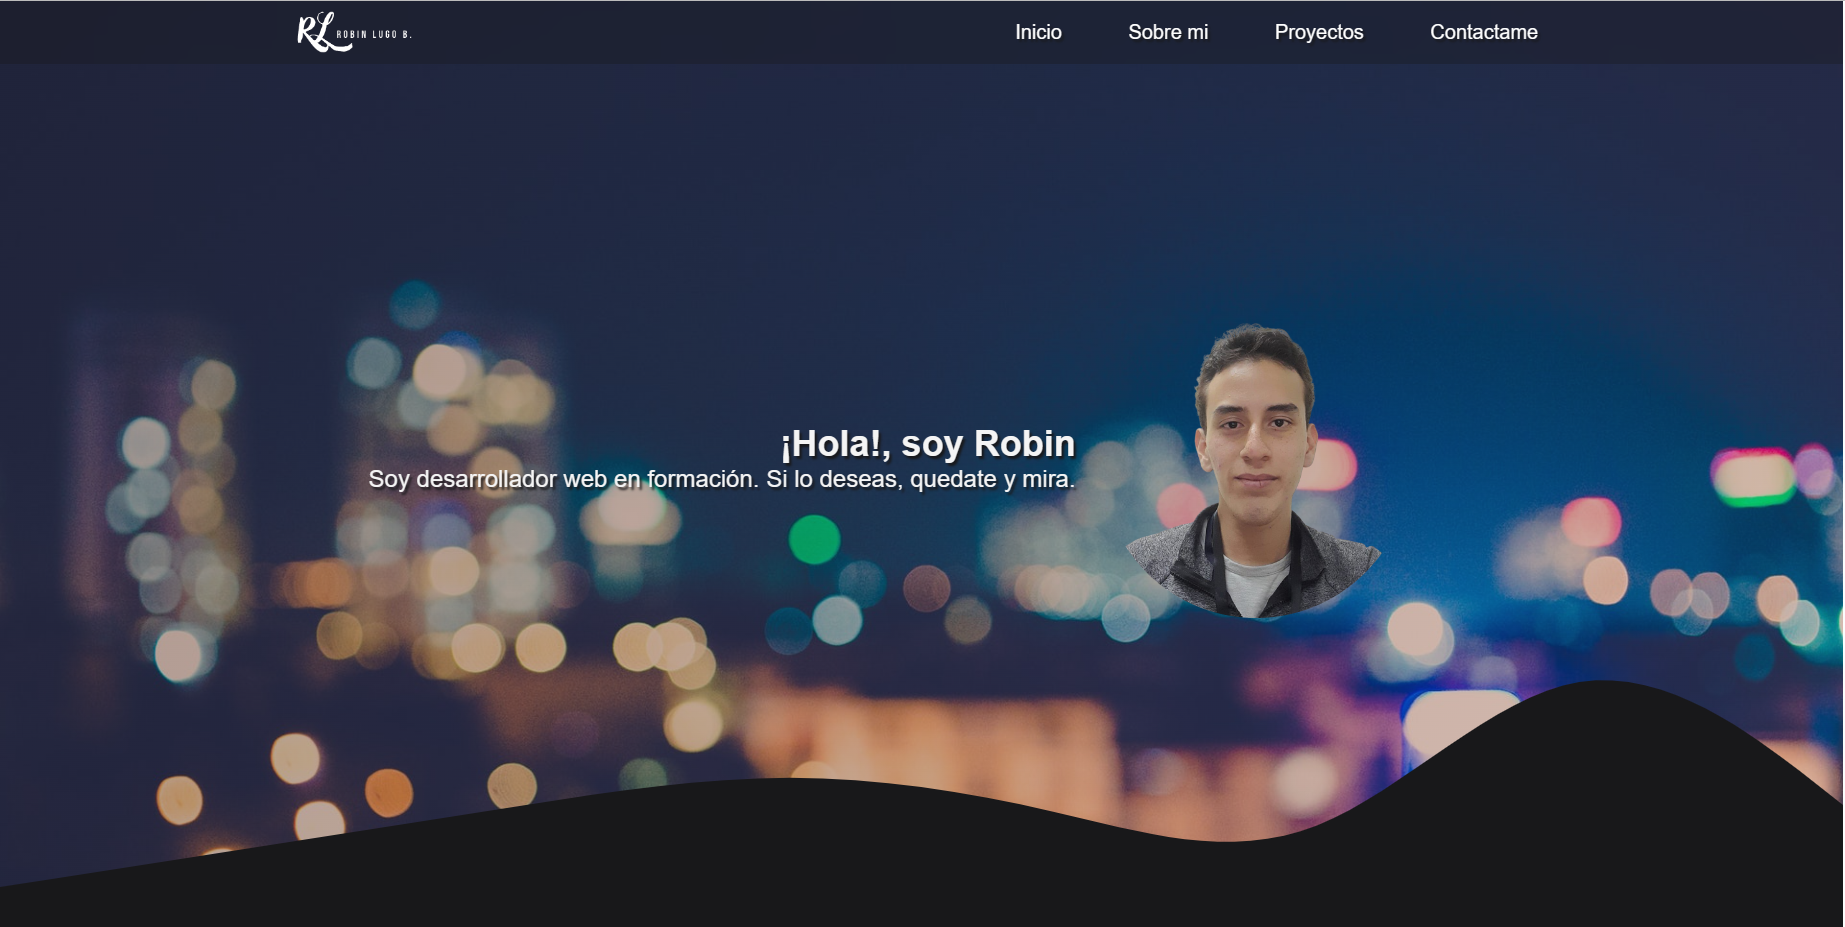
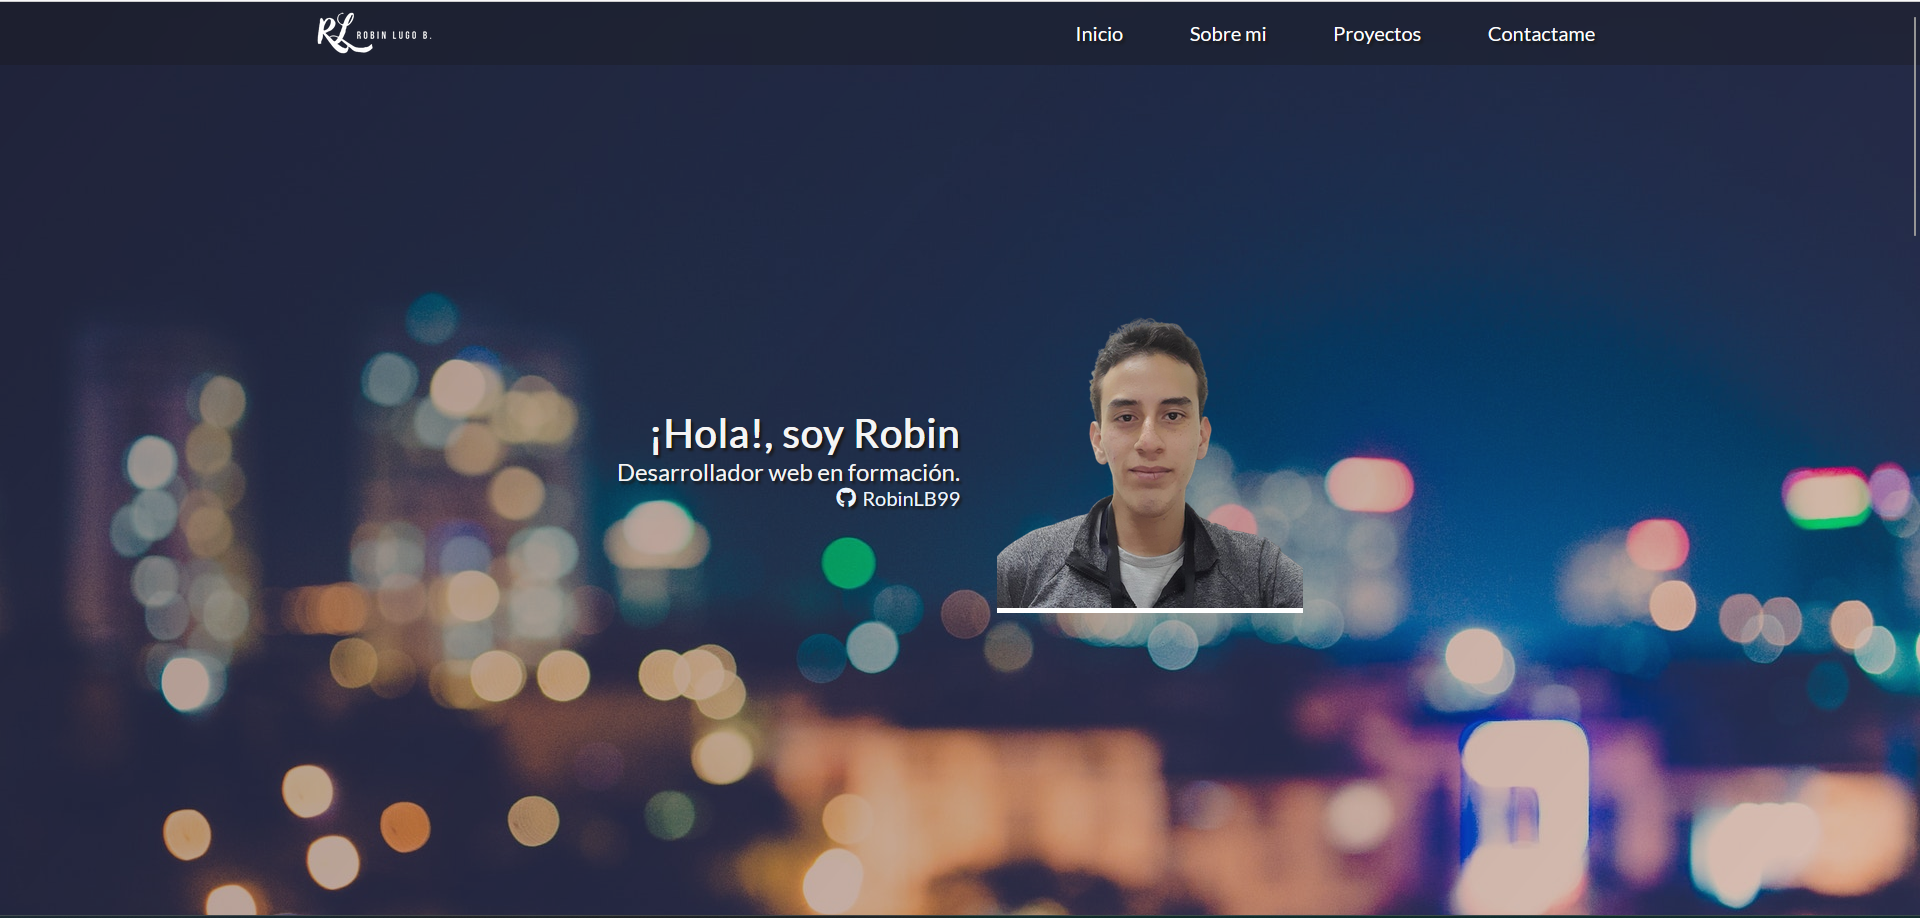
Cambio: fuentes, fontAwesome e iconos de proyectos

diff --git a/index.html b/index.html
@@ -4,7 +4,9 @@
     <meta charset="UTF-8">
     <meta http-equiv="X-UA-Compatible" content="IE=edge">
     <meta name="viewport" content="width=device-width, initial-scale=1.0">
-    <link rel="stylesheet" href="https://use.fontawesome.com/releases/v5.8.1/css/all.css" integrity="sha384-50oBUHEmvpQ+1lW4y57PTFmhCaXp0ML5d60M1M7uH2+nqUivzIebhndOJK28anvf" crossorigin="anonymous">
+    <link rel="preconnect" href="https://fonts.googleapis.com">
+    <link rel="preconnect" href="https://fonts.gstatic.com" crossorigin>
+    <link href="https://fonts.googleapis.com/css2?family=Lato&display=swap" rel="stylesheet">
     <link rel="stylesheet" href="./assets/css/all.css">
     <link rel="stylesheet" href="./assets/webfonts/fa-regular-400.ttf">
     <link rel="stylesheet" href="./assets/webfonts/fa-solid-900.ttf">
@@ -39,15 +41,15 @@
                 <p class="text">Inicio</p>
             </a>
             <a href="#about_me" class="link_nav">
-                <p class="fx3"><i class="fas fa-info-circle"></i></p>
+                <p class="fx3"><i class="fa-solid fa-address-card"></i></p>
                 <p class="text">Sobre mi</p>
             </a>
             <a href="#projects" class="link_nav">
-                <p class="fx3"><i class="fas fa-briefcase"></i></p>
+                <p class="fx3"><i class="fa-solid fa-briefcase"></i></p>
                 <p class="text">Proyectos</p>
             </a>
             <a href="#contact_me" class="link_nav">
-                <p class="fx3"><i class="fas fa-comments"></i></p>
+                <p class="fx3"><i class="fa-solid fa-phone"></i></p>
                 <p class="text">Contactame</p>
             </a>
         </div>
@@ -58,13 +60,16 @@
             <div class="container_home">
                 <div class="presentation">
                     <h1>¡Hola!, soy Robin</h1>
-                    <p>Soy desarrollador web en formación. Si lo deseas, quedate y mira.</p>
+                    <p>Desarrollador web en formación.</p>
+                    <a href="https://github.com/RobinLB99" target="_blank"><i class="fa-brands fa-github"></i><p>RobinLB99</p></a>
                 </div>
                 <div class="perfil">
                     <img src="./img/Perfil/robin_photo2.png" alt="photo" id="photo_perfil">
                 </div>
             </div>
+            <!--
             <svg id="wave-form" xmlns="http://www.w3.org/2000/svg" viewBox="0 0 1440 320"><path fill="rgb(24, 24, 26)" fill-opacity="1" d="M0,288L34.3,282.7C68.6,277,137,267,206,256C274.3,245,343,235,411,224C480,213,549,203,617,202.7C685.7,203,754,213,823,229.3C891.4,245,960,267,1029,240C1097.1,213,1166,139,1234,128C1302.9,117,1371,171,1406,197.3L1440,224L1440,320L1405.7,320C1371.4,320,1303,320,1234,320C1165.7,320,1097,320,1029,320C960,320,891,320,823,320C754.3,320,686,320,617,320C548.6,320,480,320,411,320C342.9,320,274,320,206,320C137.1,320,69,320,34,320L0,320Z"></path></svg>
+            -->
         </section>
         <section class="seccion about_me" id="about_me">
             <fieldset id="about_me_parragraf">
@@ -90,10 +95,9 @@
                             <p class="descrip_project">Calculador de operaciones matematicas escenciales.</p>
                         </figcaption>
                         <div class="buttons">
-                            <a href="https://github.com/RobinLB99/Calculadora" target="_blank"><i class="fa-brands fa-github"></i><p>Codigo</p></a>
+                            <a href="https://github.com/RobinLB99/Calculadora" target="_blank"><i class="fa-brands fa-github"></i></a>
                             <a href="https://robinlb99.github.io/Calculadora/" target="_blank">
                                 <i class="fa-solid fa-globe"></i>
-                                <p>Web</p>
                             </a>
                         </div>
                     </label>
@@ -110,10 +114,9 @@
                             <p class="descrip_project">Software de gestion de inventario de biblioteca</p>
                         </figcaption>
                         <div class="buttons">
-                            <a href="https://github.com/RobinLB99/Biblioteca-Inventario" target="_blank"><i class="fa-brands fa-github"></i><p>Codigo</p></a>
+                            <a href="https://github.com/RobinLB99/Biblioteca-Inventario" target="_blank"><i class="fa-brands fa-github"></i></a>
                             <a href="https://robinlb99.github.io/Biblioteca-Inventario/" target="_blank">
                                 <i class="fa-solid fa-globe"></i>
-                                <p>Web</p>
                             </a>
                         </div>
                     </label>
@@ -130,7 +133,7 @@
                             <p class="descrip_project">Portafolio personal en el cual estan.</p>
                         </figcaption>
                         <div class="buttons">
-                            <a href="https://github.com/RobinLB99/Mi-portafolio" target="_blank"><i class="fa-brands fa-github"></i><p>Codigo</p></a>
+                            <a href="https://github.com/RobinLB99/Mi-portafolio" target="_blank"><i class="fa-brands fa-github"></i></a>
                         </div>
                     </label>
                     <input type="checkbox" name="option" id="checkbox4" onclick="deselectAllCheckboxesExcept(this)">
@@ -147,11 +150,9 @@
                         <div class="buttons">
                             <a href="https://github.com/RobinLB99/Landing-Page" target="_blank">
                                 <i class="fa-brands fa-github"></i>
-                                <p>Code</p>
                             </a>
                             <a href="https://robinlb99.github.io/Landing-Page/" target="_blank">
                                 <i class="fa-solid fa-globe"></i>
-                                <p>Web</p>
                             </a>
                         </div>
                     </label>
@@ -169,11 +170,9 @@
                         <div class="buttons">
                             <a href="https://github.com/RobinLB99/Paguina-de-documentacion-tecnica" target="_blank">
                                 <i class="fa-brands fa-github"></i>
-                                <p>Code</p>
                             </a>
                             <a href="https://robinlb99.github.io/Paguina-de-documentacion-tecnica/" target="_blank">
                                 <i class="fa-solid fa-globe"></i>
-                                <p>Web</p>
                             </a>
                         </div>
                     </label>
@@ -191,11 +190,9 @@
                         <div class="buttons">
                             <a href="https://github.com/RobinLB99/Encuesta" target="_blank">
                                 <i class="fa-brands fa-github"></i>
-                                <p>Code</p>
                             </a>
                             <a href="https://robinlb99.github.io/Encuesta/" target="_blank">
                                 <i class="fa-solid fa-globe"></i>
-                                <p>Web</p>
                             </a>
                         </div>
                     </label>
@@ -213,11 +210,9 @@
                         <div class="buttons">
                             <a href="https://github.com/RobinLB99/Tribute-Page" target="_blank">
                                 <i class="fa-brands fa-github"></i>
-                                <p>Code</p>
                             </a>
                             <a href="https://robinlb99.github.io/Tribute-Page/" target="_blank">
                                 <i class="fa-solid fa-globe"></i>
-                                <p>Web</p>
                             </a>
                         </div>
                     </label>
@@ -229,7 +224,7 @@
         </section>
         <section class="seccion contact_me" id="contact_me">
             <div class="container_contact">
-                <h1 class="contact_me">Contact me by</h1>
+                <h1 class="contact_me">Contactame por:</h1>
                 <div class="line"></div>
                 <div class="links">
                     <a class="link" href="https://ec.linkedin.com/in/robin-joel-lugo-boero-58274320a" target="_blank">

diff --git a/styles/styles.css b/styles/styles.css
@@ -5,7 +5,7 @@
 }
 
 html, body{
-    font-family: Arial, Helvetica, sans-serif;
+    font-family: Lato, Arial, Helvetica, sans-serif;
     background-color: #18181a;
     color: #f4f4f4;
     scroll-behavior: smooth;
@@ -55,16 +55,19 @@ html, body{
 
     height: 100vh;
 
-    overflow: hidden; /* Ocultar el desbordamiento */
+    overflow: hidden;
 }
 
 .container_home {
-    width: fit-content;
+    width: 100%;
     height: fit-content;
 
-    display: grid;
-    grid-template-columns: 2fr 1fr;
-    gap: 20px;
+    display: flex;
+    flex-direction: row;
+    flex-wrap: wrap-reverse;
+
+    justify-content: center;
+    gap: 30px;
 
     grid-column: 2 / 5;
     grid-row: 2 / -1;
@@ -74,29 +77,41 @@ html, body{
     text-align: right;
     font-size: 1.2rem;
 
-    display: grid;
-    grid-template-rows: repeat(4, 1fr);
+    display: flex;
+    flex-direction: column;
+
+    justify-content: center;
 }
 
 .presentation h1 {
-    grid-row: 2/3;
-
-    display: grid;
-    align-items: end;
+    font-size: 2rem;
 }
 
-.presentation p {
-    grid-row: 3/4;
+.presentation a {
+    color: #edf6ff;
+    text-decoration: none;
+    font-size: 1rem;
+
+    display: flex;
+    flex-direction: row;
+    gap: 5px;
+
+    align-items: center;
+    justify-content: flex-end;
+}
+
+.presentation a:hover {
+    color: #49c5ff;
 }
 
 #photo_perfil {
     height: 250px;
     width: auto;
-    border-radius: 50%;
+
+    border-bottom: 4px solid white;
 }
 
 #wave-form {
-    /* Ajustar las columnas y filas para que se adapten al contenido */
     grid-column: 1 / -1;
     grid-row: 3 / -1;
 
@@ -167,10 +182,11 @@ html, body{
 .card {
     width: 300px;
     height: 350px;
-    
+
     background-color: rgba(36, 41, 46, 0.7);
     backdrop-filter: blur(5px);
     color: white;
+    border: 5px solid transparent;
     border-radius: 5px;
 
     display: grid;
@@ -179,17 +195,17 @@ html, body{
 
     box-shadow: 5px 5px 10px rgba(0, 0, 0, 0.5);
     text-shadow: 5px 5px 10px rgba(0, 0, 0, 0.5);;
-    
+
     overflow: hidden;
     cursor: pointer;
 
-    transition-duration: .5s;
+    transition-duration: .2s;
 }
 
 .card:hover {
     background-color: rgb(36, 41, 46, 1);
-    box-shadow: 5px 5px 10px rgba(0, 0, 0, 0.8);
-    transition-duration: .5s;
+    box-shadow: 10px 10px 10px rgba(18, 18, 18, 0.8);
+    transition-duration: .2s;
 }
 
 input[type="checkbox"] {
@@ -198,53 +214,51 @@ input[type="checkbox"] {
 
 .buttons {
     grid-column: -1/1;
-    grid-row: -1/1;
+    grid-row: 2/3;
 
     background-color: rgb(36, 41, 46, 1);
+    border-radius: 4px;
 
     display: flex;
-    flex-direction: column;
+    flex-direction: row;
+    gap: 10px;
 
     justify-content: center;
     align-items: center;
 
-    gap: 10px;
-
-    align-items: center;
-
-    clip-path: circle(0 at top left);
-    transition: clip-path .4s;
+    clip-path: circle(0 at left);
+    transition: clip-path .2s;
 }
 
 input[type="checkbox"]:checked + label .buttons {
-    clip-path: circle(150% at top left);
+    clip-path: circle(150% at left);
 }
 
 
 .buttons a {
-    width: 150px;
-    height: 40px;
+    width: 50px;
+    height: 50px;
     padding: 5px;
-    border-radius: 4px;
+    border-radius: 50%;
 
-    font-size: 1.3rem;
+    font-size: 1.5rem;
     text-decoration: none;
     color: #ffffffcb;
     background-color: rgb(26, 28, 29);
 
     display: grid;
-    grid-template-columns: .5fr 1fr;
+    grid-template-columns: 1fr;
     gap: 5px;
     place-items: center;
 
-    transition-duration: .4s;
+    transition-duration: .2s;
 
     cursor: pointer;
 }
 
 .buttons a:hover {
     background-color: rgb(53, 59, 66);
-    transition-duration: .4s;
+    transition-duration: .2s;
 }
 
 .buttons p {
@@ -260,6 +274,8 @@ input[type="checkbox"]:checked + label .buttons {
 .preview_project {
     width: 100%;
     height: 100%;
+
+    border-radius: 4px;
 
     object-fit: cover;
 

diff --git a/styles/tablet_mode.css b/styles/tablet_mode.css
@@ -23,6 +23,15 @@
         place-content: center;
         width: 100%;
         height: 50px;
+
+        border-radius: 4px;
+
+        transition-duration: .2s;
+    }
+
+    .link_nav:hover {
+        background-color: #ffffff53;
+        transition-duration: .2s;
     }
 
     .link_nav .fx3 {
@@ -33,10 +42,6 @@
 
     .link_nav p[class="text"] {
         display: none;
-    }
-
-    .container_home {
-        text-align: center;
     }
 
     .border, .separador {
@@ -57,15 +62,12 @@
     }
 }
 
-@media only screen and (max-width: 800px) {
-    .container_home {
-        grid-template-columns: none;
-        grid-template-rows: 1fr .5fr;
+@media only screen and (max-width: 960px) {
+    .presentation {
+        text-align: center;
     }
 
-    .presentation {
-        grid-row: 2/3;
-
-        text-align: center;
+    .presentation a {
+        justify-content: center;
     }
 }
